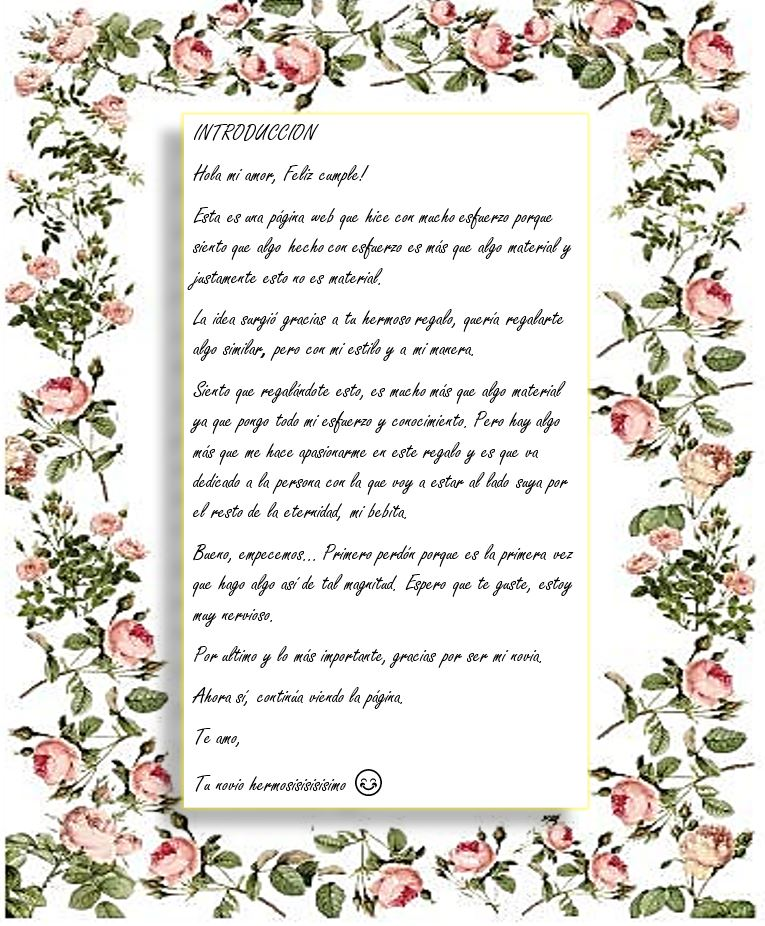
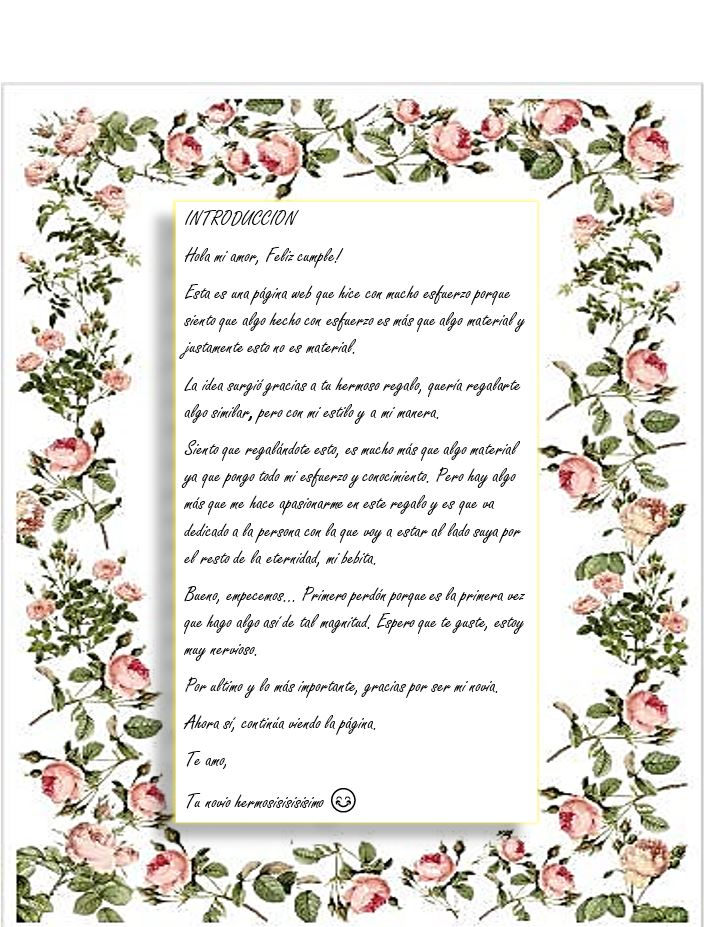
termino introduccion.html

diff --git a/introduccion.html b/introduccion.html
@@ -40,7 +40,7 @@
                 <nav class="main_nav_container">
                     <div class="main_nav">
                         <ul class="main_nav_list">
-                            <li class="main_nav_item"><a href="#">Te amo</a></li>
+                            <li class="main_nav_item"><a href="index.html">Te amo</a></li>
                             <li class="main_nav_item"><a href="regalito.html">Regalito</a></li>
                             <li class="main_nav_item"><a href="courses.html">Sorpresita</a></li>
                             <li class="main_nav_item"><a href="elements.html">Te quiero</a></li>
@@ -73,7 +73,7 @@
         </div>
         
         <!-- Carta -->
-    <center><img src="images/giuli/introduccion1.JPG" style="width:1200px ; height: 1100px ;"></center>
+    <center><img src="images/giuli/introduccion1.JPG" style="width:1200px ; height: 1050px ;"></center>
      
                   
     <script src="js/jquery-3.2.1.min.js"></script>
